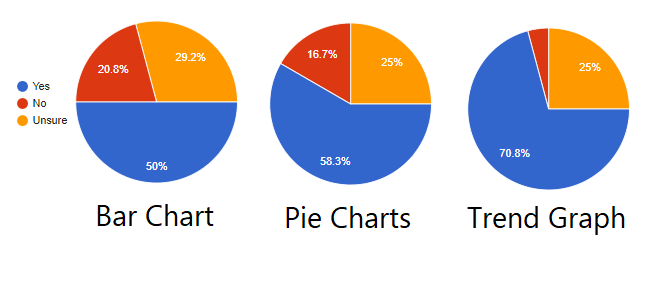
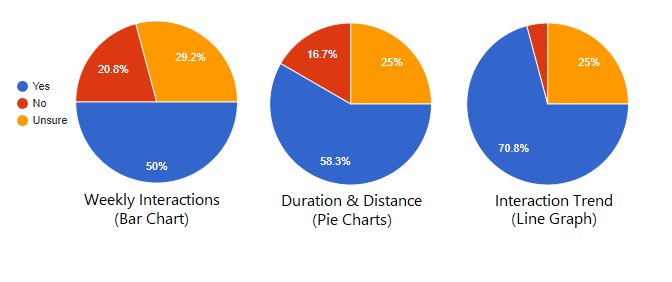
Updated eval and conclusion

diff --git a/dissertation/l4proj.tex b/dissertation/l4proj.tex
@@ -137,7 +137,7 @@ In addition to the prevention guidelines discussed above countries have also fou
 
 To be able to perform this contact tracing effectively it is not enough to rely solely on manual contact tracing methods alone \citep{shubina_technical_2020}. Instead the strategy has been to augment manual efforts through using digital contact tracing i.e., wireless technologies on electronic devices. Smartphones are the most common choice of device as for digital contact people not using the same system will be invisible to each other, and smartphones are devices that most of the population carries with then daily, meaning driving public adoption of a system is easier.
 
-\subsection{Digital Contact Tracing Technologies}
+\subsection{Digital Contact Tracing Technologies} \label{sec:dctt}
 
 In the development of their own digital contact tracing systems countries have made use of a number of wireless technologies to accomplish the task of proximity estimation. I'll briefly describe a few discussing their suitability for use in contact detection.
 
@@ -260,7 +260,7 @@ I will give a brief overview of each layer on the BLE architecture presented in 
 
 \subsubsection{GATT:} The top-level layer in the BLE stack is the genetric attribute protocol. This provides a level of abstraction over the base attributes defined in ATT, descriptors, characteristics, and services. These are linked concepts, a services is made up of characteristics, which in turn optionally contain descriptors. Descriptors provide metadata about the characteristic containing it. Characteristics are pieces of data, containing values and also properties, which act as permissions for what that characteristic allows. Finally, services are a set of related characteristics.
 
-\subsection{Received Signal Strength Indication}
+\subsection{Received Signal Strength Indication} \label{sec:rssi}
 
 The RSSI is an indication of the reliability of the connection between two devices. \citet{SIG5.0}, in the Bluetooth 5.0 specification, describes how it can be used directly by the BLE protocol for hopping between channels, and can also be accessed by the upper layers of the BLE stack. It also states that if a device supports Received Signal Strength Indicator (RSSI) the accuracy shall be +/- 6 dB, though it should be noted that this varies between hardware implementations. Within BLE the RSSI is an absolute signal strength measurement given in decibel-milliwatts (dBm).
 
@@ -850,19 +850,21 @@ This chapter discussed the high-level design and implementation process used dur
 %==================================================================================================================================
 \chapter{Evaluation}
 
+Evaluation for the project was multi-faceted, considering unit testing, user experiments, user surveys, and requirements validation.
+
 \section{Testing}
 
-Unit testing was performed for both the ESP32 codebase and the Android App codebase, a total of 129 unit tests were written between the two codebases. The unit tests were created to ensure correctness of implemented code. For each function tested, both normal input and edge case input were tested. Unit tests don't guarantee correct execution but they do help in finding some bugs that exist within the code. On reflection, I should have followed a test-drive development (TDD) approach throughout the project rather than testing at the end, followed by bug fixing. This would have made the constant refactoring during the project far safer, and saved trouble from unseen bugs persisting through iterations during implementation.
+Unit testing was performed for both the ESP32 codebase and the Android App codebase, a total of 129 unit tests were written between the two codebases. The unit tests were created to ensure correctness of implemented code. For each function tested, both normal input and edge case input were tested. Unit tests don't guarantee correct execution but they do help in finding some bugs that exist within the code. On reflection, I should have followed a test-driven development (TDD) approach throughout the project rather than testing at the end, followed by bug fixing. This would have made the constant refactoring during the project far safer, and saved trouble from unseen bugs persisting through iterations during implementation.
 
 \subsection{Android UI Testing}
 
-UI testing was considered and had some attempts to be used in the project using the Espresso UI Test Recorder as part of the Android Studio framework. This allows you to record a set of actions then create assertions on certain UI components to verify their correctness. Unfortunately, this was not suitable for this project as the UI in this project is dependant on BLE interaction with the ESP32 device. Without this interaction it makes certain parts of the UI impossible to test and this framework doesn't allow for mocking this behaviour. Further, since the database operates asynchronously from the UI using the test recording framework isn't reliable since results may vary depending on execution timing. For these reasons the UI of the Android app contains no automated testing.
+UI testing was considered and some attempts were made to do this in the project using the Espresso UI Test Recorder as part of the Android Studio framework. This allows you to record a set of actions then create assertions on certain UI components to verify their correctness. Unfortunately, this was not suitable for this project as the UI in this project is dependent on BLE interaction with the ESP32 device. Without this interaction it makes certain parts of the UI impossible to test and this framework doesn't allow for mocking this behaviour. Further, since the database operates asynchronously from the UI using the test recording framework isn't reliable since results may vary depending on execution timing. For these reasons the UI of the Android app contains no automated testing; it was considered too complex to be able to properly test.
 
 \subsection{Android Unit Testing}
 
 There are two types of unit testing available on Android. There is Java Virtual Machine (JVM) unit testing and instrumented unit testing. Instrumented unit testing runs either on the phone or within a smartphone emulator; these tests are much slower to execute as they need to upload to the smartphone. JVM unit tests are much quicker but are difficult implement as the Android functionality that an app relies upon can't be executed. To enable implementation of JVM unit testing Robolectric \citep{robolectric_robolectric_2019} was used. This is a library which mocks many common Android SDK function calls. Further, to allow testing components which handled BLE objects Mockito \citep{faber_mockito_2020} was used. Mockito is a library which allows for custom behaviour mocking of certain object types. By using these two libraries, along with the base unit testing library JUnit, \citep{junit_team_junit_2020}, I was able to implement my unit testing within the JVM.
 
-There were some components that were not feasible to test at all. Testing the BLE callbacks was not possible, this is due to how Android, and by extension Blessed, handles callback events. They are declared final, meaning that Mockito is unable to mock a call to them as final classes cannot be extended. This means code contained within the callbacks cannot be covered by tests. Further, the auto-generated code from Android navigation was excluded from testing as this is the domain of UI testing, whereas the auto-generated code from the Room DAO was left in to show the tested state of the database system. A total of 86 unit tests were written for the Android codebase, all of which passed.
+There were some components that were not feasible to test at all. Testing the BLE callbacks was not possible, this is due to how Android, and by extension the Blessed library, handles callback events. They are declared final, meaning that Mockito is unable to mock a call to them as final classes cannot be extended. This means code contained within the callbacks cannot be covered by tests. Further, the auto-generated code from Android navigation was excluded from testing as this is the domain of UI testing, whereas the auto-generated code from the Room DAO was left in to show the tested state of the database system. A total of 86 unit tests were written for the Android codebase, all of which passed.
 
 Figure \ref{fig:android_coverage} shows the coverage report generated from running the test suite. Unfortunately, the most precise metric this test suite can provide is line coverage, more fine-grained metrics such as branch coverage and condition coverage can provide greater insight. As expected the Activity, Fragment, Visualisation, and DatabaseUI sections of code, which are responsible for UI, are very poorly covered. The main database functionality was aggressively tested, as seen by the 100\% line coverage of entities and repositories. The DAO and main Database package coverage is lower as these packages contain code that is auto-generated, so is harder to design tests for. Overall the line coverage is 44.7\%, including auto-generated and UI sources.
 
@@ -892,7 +894,7 @@ AUnit, \citep{park_bxparksaunit_2021}, is the library chosen to perform unit tes
 
 \section{Ethics}
 
-A requirement of this system was that evaluation was performed ethically. The survey performed was ethically sound, shown by following and signing the ethics checklist as seen in Figures \ref{fig:ethics_checklist1} - \ref{fig:ethics_checklist3}. The experiment required a request for formal ethical approval, which was granted as seen in Figures \ref{fig:full_ethics_approval1} - \ref{fig:full_ethics_approval3}. These required formal ethical approval as my project used non-standard hardware, namely the ESP32, which violated point 2 of the ethics checklist. As part of the experiment process, participants were asked to fill in a consent form, Figure \ref{fig:participant_consent}, along with receiving information sheets, Figure \ref{fig:participant_information},  and a debriefing email, Figure \ref{fig:participant_debriefing}. Finally, during the surveys performed their was an informed consent section in the Google Form, which the user had to agree to, to begin the survey.
+A requirement of this system was that evaluation was performed ethically. The survey performed was ethically sound, shown by following and signing the ethics checklist as seen in Figures \ref{fig:ethics_checklist1} - \ref{fig:ethics_checklist3}. The experiment required a request for formal ethical approval, which was granted as seen in Figures \ref{fig:full_ethics_approval1} - \ref{fig:full_ethics_approval3}. These required formal ethical approval as my project used non-standard hardware, namely the ESP32, which was identified by point 2 of the ethics checklist. As part of the experiment process, participants were asked to fill in a consent form, Figure \ref{fig:participant_consent}, along with receiving information sheets, Figure \ref{fig:participant_information},  and a debriefing email, Figure \ref{fig:participant_debriefing}. Finally, during the surveys performed their was an informed consent section in the Google Form, which the user had to agree to, to begin the survey.
 
 \section{Experiment}
 
@@ -914,7 +916,7 @@ The participants are then separated again. They are each asked to explore the ap
     \centering
     \includegraphics[width=0.95\linewidth]{images/experiment.png}
 
-    \caption{ Example of how the experiment would be setup in a given area. Participants stand at each end of the tape measure which is 3 metres in length. }
+    \caption{ Example of how the experiment would be setup in a given area. A pair of participants stand at each end of the tape measure which is 3 metres in length. }
 
     % use the notation fig:name to cross reference a figure
     \label{fig:experiment_setup}
@@ -930,7 +932,7 @@ These tasks involved the particpants interacting with the Android app. This, alo
 
 \section{Qualitative Survey}
 
-To attempt to account for the COVID-19 limitations described above a separate survey was created that could be sent to participants online, Figures \ref{fig:non-contact-survey-questions-1} - \ref{fig:non-contact-survey-questions-2}. This survey was designed to only look at usability and education. The survey contained a section for each page in the app, a section for the device, and a general questions section. Within each section was a short video, of either the app being operated, or the device being used. These videos were the basis for the questions are were an attempt at a substitute for using the device. This survey received 24 responses, a significant amount, and was segmented into 17 (70.8\%) tech-literate responses, and 7 (29.2\%) tech-iliterate responses. This survey was designed to enable quantitative and qualitative responses; Likert scale, and yes/no questions were used to obtain quantitative data.
+To attempt to account for the COVID-19 limitations described above a separate survey was created that could be sent to participants online, Figures \ref{fig:non-contact-survey-questions-1} - \ref{fig:non-contact-survey-questions-2}. This survey was designed to only look at usability and education; it wouldn't have been a suitable evaluation for the other aspects of the system. The survey contained a section for each page in the app, a section for the device, and a general questions section. Within each section was a short video, of either the app being operated, or the device being used. These videos were the basis for the questions are were an attempt at a substitute for using the device. This survey received 24 responses and was segmented into 17 (70.8\%) tech-literate responses, and 7 (29.2\%) tech-illiterate responses. This survey was designed to enable quantitative and qualitative responses; Likert scale, and yes/no questions were used to obtain quantitative data.
 
 \section{Results Analysis}
 
@@ -954,11 +956,11 @@ Finally, for this project I performed two separate sections of open, axial, and 
 
 \subsection{Quantitative Analysis: Survey Data}
 
-For both the post-experiment survey and the non-contact survey Google Forms were used in the collection of data. Part of this data is quantitative, using Google forms Likert Scale, and multiple choice question types. Part of the Google Forms functionality is to create categorical data visualisations based on the received question responses. Having these visualisations allowed for easier analysis by inspection.
+For both surveys Google Forms were used in the collection of data. Part of this data is quantitative, using Google forms Likert Scale, and multiple choice question types. Part of the Google Forms functionality is to create categorical data visualisations based on the received question responses. Having these visualisations allowed for easier analysis by inspection.
 
 \subsection{Quantitative Analysis: Experimental Data}
 
-Two dependant variables were considered during the experiment: the physical distance when alerts started and stopped, and the device data throughout the experiment, which was extracted using the export data feature of the system. After the experiment had concluded to device data was processed to extract the timestamps of each interaction. These timestamps were then analysed to map the real distance measurements to the device recorded data, i.e. map the device belief to the observed distance. Once the timestamps for the start and end of each user task had been located they were extracted and estimated distances were calculated from the related RSSI data.
+Two dependent variables were considered during the experiment: the physical distance when alerts started and stopped, and the device data throughout the experiment, which was extracted using the export data feature of the system. After the experiment had concluded to device data was processed to extract the timestamps of each interaction. These timestamps were then analysed to map the real distance measurements to the device recorded data, i.e. map the device belief to the observed distance. Once the timestamps for the start and end of each user task had been located they were extracted and estimated distances were calculated from the related RSSI data.
 
 This data was used to calculate important key metrics, such as: difference in reaction time between the two devices, and the difference between the real distance between participants and the distance set in the profile. These metrics were then used to create data visualisations to provide insight, for or against, some hypotheses which will be disucssed in the Findings section. Due to only being able to carry out a single experiment due to COVID-19 limitations described above, the data here can neither prove nor disprove any claims as there is not enough data to perform statistical tests with sufficient confidence levels.
 
@@ -972,13 +974,13 @@ I will break down the findings using the open, axial, and selective codes define
 
 In total, during the non-contact survey, participants commented on more positive attributes than negative with 256 codes in favour of the system compared (NS1) to 168 attributes against system use (NS2). This section will discuss a few key aspects that were expressed by participants as particularly good.
 
-First, the data visualisations on the app were particularly well received, especially in regards to prompting behavioural change in users, Figure \ref{fig:behaviour}, which suggests the users were learning useful information from these visualisations helping achieve the system goal of education. The large impact of the trend interaction graph was further explored and can be backed up with qualitative feedback. The trend graphs were well understood with all but one participant understading the x-axis, 20 understanding the y, and 18 understanding the gradient colour change. The gradient colour change seemed to make a significant impact as it used standard colours for danger (red) and safety (blue), with 15 of the 18 participants who indicated it would change behaviour, also had an intuitive understanding of the colour change meaning. Only a single participant indicated a behviour change for trend without understanding the colour change.
+First, the data visualisations on the app were particularly well received, especially in regards to prompting behavioural change in users, Figure \ref{fig:behaviour}, which suggests the users were learning useful information from these visualisations helping achieve the system goal of education. The large impact of the trend interaction graph was further explored and can be backed up with qualitative feedback. The trend graphs were well understood with all but one participant understading the x-axis, 20 understanding the y, and 18 understanding the gradient colour change. The gradient colour change seemed to make a significant impact as it used standard colours for danger (red) and safety (blue), with 15 of the 18 participants who indicated it would change behaviour, also had an intuitive understanding of the colour change meaning. Only a single participant indicated a behvioural change for trend without understanding the colour change.
 
 \begin{figure}[!htb]
     \centering
-    \includegraphics[width=0.9\linewidth]{images/behaviour-graphs.png}
+    \includegraphics[width=0.85\linewidth]{images/behaviour-graphs.png}
 
-    \caption{ Showing the likelihood that each graph will change participants behaviour. Left is the weekly interactions chart with 50\% of users saying it would change behaviour, middle are the pie charts with 58.3\%, and right is the interaction trend graph with 70.8\% }
+    \caption{ Showing the likelihood that each graph will change participant behaviour. Left is the weekly interactions chart with 50\% of users saying it would change behaviour, middle are the pie charts with 58.3\%, and right is the interaction trend graph with 70.8\% }
 
     % use the notation fig:name to cross reference a figure
     \label{fig:behaviour}
@@ -1002,7 +1004,7 @@ Finally, in terms of general app design, users intuitively understood many aspec
         \label{fig:export_likert}
     \end{subfigure}
     ~
-    \caption{ Likert scales for quantitative data collected from the non-contact survey. \subref{fig:rename_likert} shows the feedback on the rename button with 95.8\% of participants having a good understanding, \subref{fig:export_likert} shows the feedback on the export button with 62.5\% of participants having a good understanding }
+    \caption{ Likert scales, 1 (Strongly Disagree) to 5 (Strongly Agree), for quantitative data collected from the non-contact survey. \subref{fig:rename_likert} shows feedback on the rename button; 95.8\% of participants had a good understanding, \subref{fig:export_likert} shows feedback on the export button; 62.5\% of participants had a good understanding }
     \label{fig:button_likert}
 \end{figure}
 
@@ -1012,9 +1014,9 @@ A significant problem with the current implementation of the system is the perfo
 
 \begin{figure}[!htb]
     \centering
-    \includegraphics[width=1.0\linewidth]{images/clustered-time-diff.png}
+    \includegraphics[width=0.8\linewidth]{images/clustered-time-diff.png}
 
-    \caption{ Analysis of mean absolute time differences of devices reacting to change in real world state. Clustered by location, showing the time difference for each distance profile. Error bars are calculated from standard sample deviation. }
+    \caption{ Analysis of mean absolute time differences of devices reacting to change in real world state. Clustered by location, showing the time difference for each distance profile. Error bars indicate +/- 1 standard deviation. Each bar consists of two distinct measurements. }
 
     % use the notation fig:name to cross reference a figure
     \label{fig:clustered-time-diff}
@@ -1041,15 +1043,15 @@ When considering the evaluation process as a whole it was clear that there was m
 
 This project aimed at building Keep Your Distance, an integrated microcontroller and smartphone system to allow people to be more confident that they were adhering to social distancing practices. ESP32 was the chosen microcontroller, delivering both a low-power and low-cost solution. This introduced some technical constraints which influenced the project. Some constraints were manageable, such as not having any non-volatile storage on-board. Some constraints could not be mitigated against and would require hardware changes, such as the transmission power of the Bluetooth system. In addition to enforcing social distancing there was a focus on user education, allowing users to make changes to their habits based on recorded system use. There was also a focus on system usability, ensuring this system could be used by a wide range of users; considerations were made for aspects like technical knowledge, and colour blindness.
 
-Through user evaluation and testing it was shown that, for both functional and non-functional requirements, all the must have requirements in the MoSCoW framework were met, with a further 66\% of should have requirements being met. The user experiment showed that further development is needed to achieve active contact identification in a precise and timely manner. This is shown by the best of the result sets having a mean error of 0.32m and std of 0.18m, along with a significant time difference in device activation of at minimum 2000 milliseconds. However, both the education and usability goals were met, as shown by the open, axial, selective coding process and the quantitative questionnaire data. For education, all the data visualisation were well understood with the best being the trend graph at 70.8\% of participants reacting positively. In terms of usability, this was shows by the 157 positive app usability codes. This shows the participants had an intuitive understanding of the interface
+Through user evaluation and testing it was shown that, for both functional and non-functional requirements, all the must have requirements in the MoSCoW framework were met, with a further 66\% of should have requirements being met. The user experiment showed that further development is needed to achieve active contact identification in a precise and timely manner. This is shown by the best of the result sets having a mean error of 0.32m and standard deviation (std) of 0.18m, along with a significant time difference in device activation of at minimum 2 seconds. However, both the education and usability goals were met, as shown by the open, axial, selective coding process and the quantitative questionnaire data. For education, all the data visualisation were well understood with the best being the trend graph at 70.8\% of participants reacting positively. In terms of usability, this was shows by the 157 positive app usability codes. This shows the participants had an intuitive understanding of the interface
 
 \section{Future Work}
 
-There have been numerous areas of the project which I have idenitfied areas to focus improvements on if I had more time on the project, or if someone were to continue this project further.
+There have been numerous areas of the project which I have identified areas to focus improvements on if I had more time on the project, or if someone were to continue this project further.
 
 \subsection{Hardware Changes}
 
-There are a number of issues to be solved and improvements to be made, the majority of which can be resolved through hardware changes. The main issue is BLEs poor suitability for real-time accurate distance approximation. The RSSI values are subject to significant variance caused by environmental factors such as surrounding surfaces, surface material, interference from other signals, and people themselves. Additional hardware could be incorporated into the system in the form of Ultra-Wideband (UWB) transmitters. This would allow far more accurate, and precise distance estimation using the Two Way Ranging technique \citep{inpixon_ultra_wideband_2021}.
+There are a number of issues to be solved and improvements to be made, the majority of which can be resolved through hardware changes. The main issue is BLE's poor suitability for real-time accurate distance approximation, this was also found in other studies as seen in Section \ref{sec:dctt}. The RSSI values are subject to significant variance caused by environmental factors such as surrounding surfaces, surface material, interference from other signals, and people themselves. Additional hardware could be incorporated into the system in the form of Ultra-Wideband (UWB) transmitters. This would allow far more accurate, and precise distance estimation using the Two Way Ranging technique \citep{inpixon_ultra_wideband_2021}.
 
 \subsection{Alternative Distance Approximation Models}
 
@@ -1061,13 +1063,15 @@ Currently the companion app is only implemented on Android OS, specifically high
 
 \subsection{Further Acessibility \& Usability}
 
-While consideration were made for accessibility during this process, such as designing colour sets to work over a wide variety of colour blindness types. However, further work is needed in accessibility for low-vision and blind users. Currently key areas of the app, such as the data visualisations, have no support for screen readers. This should be changed so that no users are excluded from using the system. To improve overall usability help sections should be added to the app, both for information on certain app functionality and to describe the device output to users.
+Consideration was made for accessibility during this process, such as designing colour sets to work over a wide variety of colour blindness types. However, further work is needed in accessibility for low-vision and blind users. Currently key areas of the app, such as the data visualisations, have no support for screen readers. This should be changed so that no users are excluded from using the system. To improve overall usability help sections should be added to the app, both for information on certain app functionality and to describe the device output to users.
 
 \section{Key Reflections}
 
-Working through the process to create the Keep Your Distance system, allowed the development of many new skills and the consolidation of existing skills developed throughout 4 years of university study. Particularly, I have now seen firsthand the importance of project and time management, along with skills and tools to improve these processes. Working on two distinct but related codebases simultaneously, and interlinking these through BLE networking, has emphasised the value of protocol and system architecture. This project has also allowed me to appreciate the difficulties in anticipating problems during early requirements gathering and analysis, and the further difficulties in mitigating these issues as they arise.
+Working through the process to create the Keep Your Distance system, allowed the development of many new skills and the consolidation of existing skills developed throughout 4 years of university study. Particularly, I have now seen firsthand the importance of project and time management, along with skills and tools to improve these processes. Working on two distinct but related codebases simultaneously, and inter-operating these through BLE networking, has emphasised the value of protocol and system architecture. This project has also allowed me to appreciate the difficulties in anticipating problems during early requirements gathering and analysis, and the further difficulties in mitigating these issues as they arise.
 
 The development process followed iterative design and agile practices, which were beneficial in allowing concepts to be trialed early. However, a great deal of time was spent on locating and fixing obscure bugs that arose from the numerous refactorings applied to the codesbases over the project. If I'd followed a test-driven development approach, there would have been less time spent in solving these issues allowing for more time in feature development.
+
+Finally, working on this project allowed me to better my skills in changing my internal understanding of a technical concept into an easy to understand format. This was developed both through communicating my work, thoughts, and plans to my advisor so that he could understand the work at the right level to provide feedback. This was then further developed through writing my dissertation; taking my project and explaining the core concepts to an unfamiliar reader, using both text and diagrams.
 
 %==================================================================================================================================
 %

diff --git a/timelog.md b/timelog.md
@@ -722,3 +722,7 @@
 
 - _1.5 hours_: Fix up evaluation and conclusion sections.
 - _1.5 hours_: Sort out GitHub repo readmes.
+
+### 22 Mar 2021
+
+- _1.5 hours_: Make Jeremy's suggested changes to my evaluation and conclusion sections.
